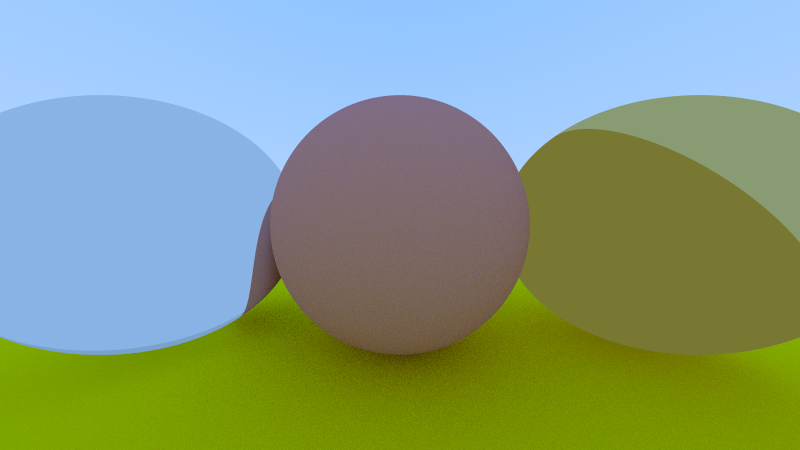
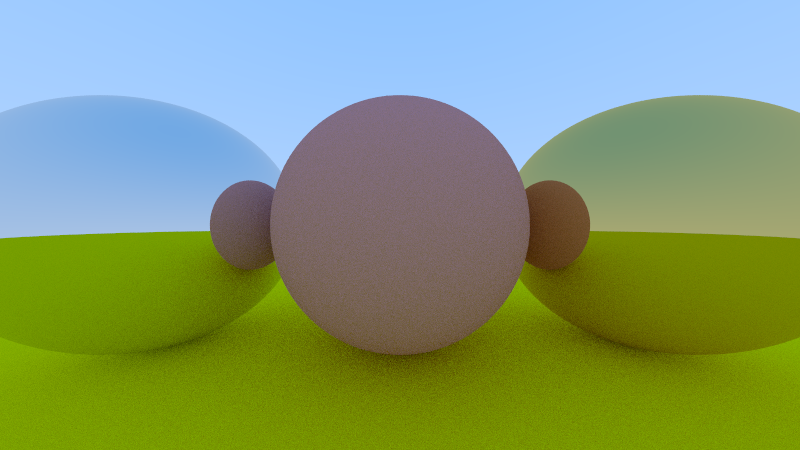
Fixed metal reflection bug.

Changed region(s): [[0.625, 0.28, 1.0, 0.8089], [0.0, 0.4044, 0.375, 0.84]]

diff --git a/Include/Material.h b/Include/Material.h
@@ -50,7 +50,7 @@ class Metal : public Material
     Scatter(Ray const& rIn, HitRecord const& rec, Color& attenuation, Ray& scattered) const override
     {
         Vector3 reflected = Reflect(UnitVector(rIn.Direction()), rec.normal);
-        scattered = Ray(rec.p, albedo);
+        scattered = Ray(rec.p, reflected);
         attenuation = albedo;
 
         return true;

diff --git a/RTWeekend.cc b/RTWeekend.cc
@@ -39,8 +39,8 @@ int main()
 
     camera.aspectRatio = 16.0 / 9.0;
     camera.imageWidth = 800;
-    camera.samplesPerPixel = 100;
-    camera.maxDepth = 50;
+    camera.samplesPerPixel = 50;
+    camera.maxDepth = 25;
 
     camera.Render(world);
 
